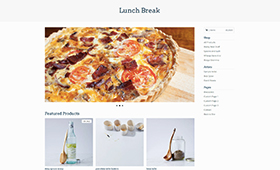
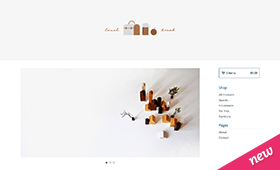
- clean up checkout.html - add proper viewport tags to checkout and maintenance page - replace imgix params with constrain filter - update default slideshow images - optimize footer height javascript - no need for meta keywords - update default screenshot - update product thumbnail css to work with 

diff --git a/source/stylesheets/products.css.sass b/source/stylesheets/products.css.sass
@@ -10,6 +10,7 @@ ul.products
     float: left
     list-style: none
     padding: 0 10px 40px 10px
+    position: relative
     width: #{"{% if theme.products_per_row == 2 %} 50% {% elsif theme.products_per_row == 3 %} 33.33% {% else %} 25% {% endif %}"}
     
     @media only screen and (max-width: $break-large)
@@ -22,7 +23,18 @@ ul.products
     a
       display: block
       position: relative
-      
+      text-align: center
+
+      img
+        +all-transitions
+        +border-radius(2px)
+        display: block
+        height: auto
+        width: auto
+        
+        &:hover
+          opacity: .85
+          
       h4
         font-size: 14px
         line-height: 1.3em
@@ -52,15 +64,6 @@ ul.products
         text-transform: uppercase
         top: 10px
 
-      img
-        +border-radius(2px)
-        +all-transitions
-        display: block
-        width: 100%
-        
-        &:hover
-          opacity: .85
-          
     &:hover
       h4
         color: $hover-color

diff --git a/source/home.html b/source/home.html
@@ -2,7 +2,7 @@
   <div class="flexslider">
     <ul class="slides">
       {% for image in theme.image_sets.slideshow_images %}
-        <li><img src="{{ image.url | constrain: '1300' }}" alt="Slideshow image {{ forloop.index }}"></li>
+        <li><img src="{{ image.url | constrain: 1300 }}" alt="Slideshow image {{ forloop.index }}"></li>
       {% endfor %}
     </ul>
     <ul class="flex-nav">
@@ -23,7 +23,7 @@
         {% for product in products %}
         <li class="{{ product.css_class }}">
           <a href="{{ product.url }}">
-            <img alt="Image of {{ product.name | escape }}" src="{{ product.image | product_image_url }}?auto=format&w=600&h=600&fit=min">
+            <img alt="Image of {{ product.name | escape }}" src="{{ product.image | product_image_url | constrain: 600, 600 }}">
             <h4 class="product_name">{{ product.name }}</h4>
             <h5>{{ product.default_price | money_with_sign }}</h5>
   					{% case product.status %}

diff --git a/source/checkout.html b/source/checkout.html
@@ -2,13 +2,10 @@
 <html>
   <head>
     <title>{{ store.name }} &mdash; {{ page.name }}</title>
-    
     <meta charset="utf-8">
+    <meta name="width=device-width, initial-scale=1, maximum-scale=1, user-scalable=0" content="viewport">
     <meta name="description" content="{{ page.meta_description }}">
-    <meta name="keywords" content="{{ page.meta_keywords }}">
-    
     <link href="{{ theme | theme_css_url }}" media="screen" rel="stylesheet" type="text/css">
-    
     <script type="text/javascript" charset="utf-8">
       function checkout() {
         if(top != self) {
@@ -18,10 +15,8 @@
         }
       }
     </script>  
-    
     {{ head_content }}
   </head>
-  
   <body id="{{ page.permalink }}" class="standalone {{ page.category }}" onload="checkout();">
     <div class="message_holder">
 	    <h1>One moment&hellip;</h1>

diff --git a/source/layout.html b/source/layout.html
@@ -4,8 +4,7 @@
     <title>{{ store.name }} &mdash; {% if page.full_url contains "search=" %}Product Search{% else %}{{ page.name }}{% endif %}</title>
     <meta charset="utf-8">
     <meta name="description" content="{{ page.meta_description }}">
-    <meta name="keywords" content="{{ page.meta_keywords }}">
-    <meta content="width=device-width, initial-scale=1, maximum-scale=1, user-scalable=0" name="viewport">
+    <meta name="viewport" content="width=device-width, initial-scale=1, maximum-scale=1, user-scalable=0">
     <meta property="og:title" content="{{ page.name }}">
     <meta property="og:site_name" content="{{ store.name | escape }}">
     {% if product != blank and page.full_url contains '/product/' %}

diff --git a/source/products.html b/source/products.html
@@ -5,7 +5,7 @@
       {% for product in products %}
       <li class="{{ product.css_class }}">
         <a href="{{ product.url }}">
-          <img alt="Image of {{ product.name | escape }}" src="{{ product.image | product_image_url }}?auto=format&w=600&h=600&fit=min">
+          <img alt="Image of {{ product.name | escape }}" src="{{ product.image | product_image_url | constrain: 600, 600  }}">
           <h4 class="product_name">{{ product.name }}</h4>
           <h5>{{ product.default_price | money_with_sign }}</h5>
 					{% case product.status %}

diff --git a/source/maintenance.html b/source/maintenance.html
@@ -3,8 +3,8 @@
   <head> 
     <title>{{ store.name }} &mdash; {{ page.name }}</title>  
     <meta charset="utf-8">
+    <meta name="width=device-width, initial-scale=1, maximum-scale=1, user-scalable=0" content="viewport">
     <meta name="description" content="{{ page.meta_description }}">
-    <meta name="keywords" content="{{ page.meta_keywords }}">
     <link href="{{ theme | theme_css_url }}" media="screen" rel="stylesheet" type="text/css">
     {{ head_content }}
   </head>

diff --git a/source/javascripts/store.js b/source/javascripts/store.js
@@ -30,11 +30,9 @@ $(function() {
       $(this).parent().removeClass('focus');
       $(this).val('');
   });
-  $(window).resize(function() { 
+  $(window).on("load resize", function() {
     $('body').css('margin-bottom', $('footer').height());
   });
-  $('body').css('margin-bottom', $('footer').height());
-  
   $('.social_facebook').click(function() { 
     $('.facebook_popup_holder').fadeToggle('fast');
     return false;
